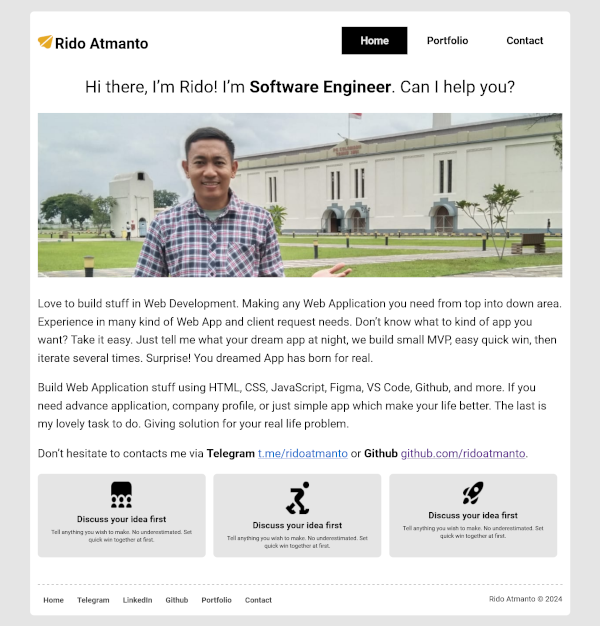
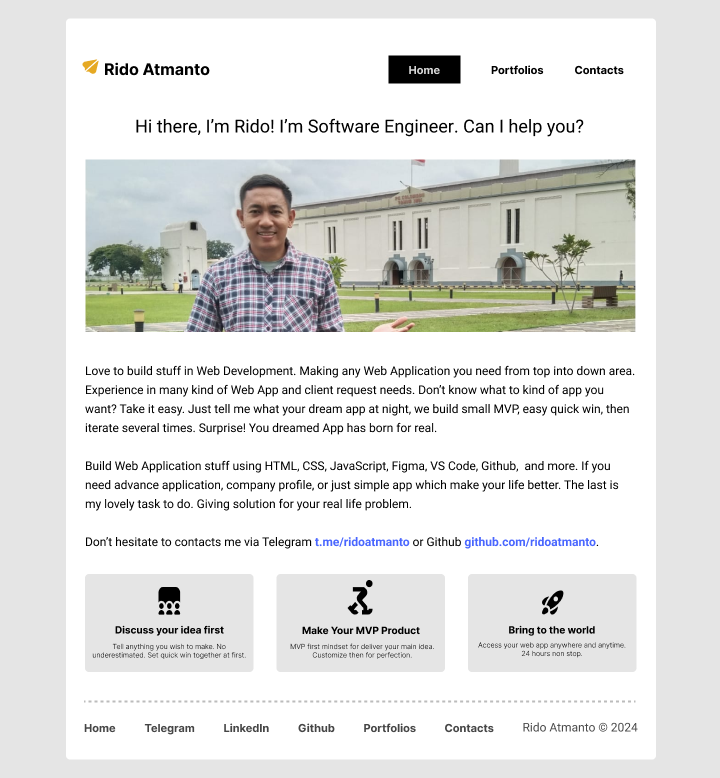
Applying Tailwind css on home page

diff --git a/index.html b/index.html
@@ -4,7 +4,8 @@
     <meta charset="UTF-8" />
     <meta name="viewport" content="width=device-width, initial-scale=1.0" />
     <title>Rido Atmanto | Personal's Website</title>
-    <link rel="stylesheet" href="/index.css" />
+    <!-- <link rel="stylesheet" href="/index.css" /> -->
+    <script src="https://cdn.tailwindcss.com"></script>
     <link rel="preconnect" href="https://fonts.googleapis.com" />
     <link rel="preconnect" href="https://fonts.gstatic.com" crossorigin />
     <link
@@ -13,30 +14,55 @@
     />
   </head>
 
-  <body>
-    <main>
-      <header>
-        <div class="left-header roboto-bold">
-          <img src="/images/rido-logo.png" alt="Rido's logo" />
-          <h2>Rido Atmanto</h2>
+  <body class="flex justify-center items-center px-4 py-4 bg-[#E5E5E5]">
+    <main class="px-4 py-4 bg-white rounded-lg max-w-screen-lg">
+      <div class="grid grid-cols-2 gap-4 lg:pt-8 pt-4 lg:pb-12 pb-6">
+        <div class="lg:col-span-1 col-span-2 lg:text-left text-center">
+          <img
+            src="/images/rido-logo.png"
+            alt="Rido's logo"
+            class="inline-block -mt-4"
+          />
+          <h1 class="text-3xl font-bold inline-block">Rido Atmanto</h1>
         </div>
-        <nav class="menu">
-          <ul>
-            <li><a href="/" class="active roboto-bold">Home</a></li>
-            <li><a href="/portfolio" class="roboto-bold">Portfolio</a></li>
-            <li><a href="/contact" class="roboto-bold">Contact</a></li>
+        <div class="lg:col-span-1 col-span-2 lg:pt-0 pt-4">
+          <ul class="flex lg:justify-end justify-center">
+            <li class="mr-1">
+              <a
+                href="/"
+                class="roboto-bold font-bold lg:px-8 px-4 lg:py-4 py-2 text-lg text-slate-300 bg-black hover:bg-white hover:text-black"
+                >Home</a
+              >
+            </li>
+            <li class="mr-1">
+              <a
+                href="/portfolio"
+                class="roboto-bold font-bold lg:px-8 px-4 lg:py-4 py-2 text-lg text-black bg-transparent hover:bg-black hover:text-slate-300"
+                >Portfolio</a
+              >
+            </li>
+            <li class="mr-1">
+              <a
+                href="/contact"
+                class="roboto-bold font-bold lg:px-8 px-4 lg:py-4 py-2 text-lg text-black bg-transparent hover:bg-black hover:text-slate-300"
+                >Contact</a
+              >
+            </li>
           </ul>
-        </nav>
+        </div>
+      </div>
+      <header>
+        <div class="left-header roboto-bold"></div>
+        <nav class="menu"></nav>
       </header>
       <div class="content roboto-regular">
-        <p class="title">
-          Hi there, I’m Rido! I’m <span class="bold">Software Engineer</span>.
-          Can I help you?
-        </p>
-        <div class="banner">
+        <h2 class="lg:text-3xl text-lg roboto-regular text-center lg:mb-8 mb-4">
+          Hi there, I’m Rido! I’m <b>Software Engineer</b>. Can I help you?
+        </h2>
+        <div class="overflow-hidden mb-8">
           <img src="/images/rido-home-banner.png" alt="rido's home banner" />
         </div>
-        <p class="roboto-regular">
+        <p class="roboto-regular text-lg mb-4">
           Love to build stuff in Web Development. Making any Web Application you
           need from top into down area. Experience in many kind of Web App and
           client request needs. Don’t know what to kind of app you want? Take it
@@ -44,68 +70,88 @@
           easy quick win, then iterate several times. Surprise! You dreamed App
           has born for real.
         </p>
-        <p class="roboto-regular">
+        <p class="roboto-regular text-lg mb-4">
           Build Web Application stuff using HTML, CSS, JavaScript, Figma, VS
           Code, Github, and more. If you need advance application, company
           profile, or just simple app which make your life better. The last is
           my lovely task to do. Giving solution for your real life problem.
         </p>
-        <p class="roboto-regular">
+        <p class="roboto-regular text-lg mb-4">
           Don’t hesitate to contacts me via <b>Telegram</b>
-          <a href="https://t.me/ridoatmanto">t.me/ridoatmanto</a> or
+          <a href="https://t.me/ridoatmanto" class="text-sky-400"
+            >t.me/ridoatmanto</a
+          >
+          or
           <b>Github</b>
-          <a href="https:/github.com/ridoatmanto">github.com/ridoatmanto</a>.
+          <a href="https:/github.com/ridoatmanto" class="text-sky-400"
+            >github.com/ridoatmanto</a
+          >.
         </p>
-        <div class="widget-container">
-          <div class="widget">
-            <img src="images/discuss.png" alt="Discuss icon's" />
-            <h3>Discuss your idea first</h3>
-            <p>
+        <div
+          class="grid lg:grid-cols-3 grid-cols-2 gap-4 pt-8 lg:pb-12 pb-4 text-center"
+        >
+          <div
+            class="lg:col-span-1 col-span-1 bg-[#E5E5E5] px-4 py-4 rounded-lg"
+          >
+            <div class="flex justify-center items-center mb-4">
+              <img src="images/discuss.png" alt="Discuss icon's" />
+            </div>
+            <h3 class="font-bold">Discuss your idea first</h3>
+            <p class="text-sm">
               Tell anything you wish to make. No underestimated. Set quick win
               together at first.
             </p>
           </div>
-          <div class="widget">
-            <img src="images/mvp.png" alt="MVP icon's" />
-            <h3>Discuss your idea first</h3>
-            <p>
-              Tell anything you wish to make. No underestimated. Set quick win
-              together at first.
+          <div
+            class="lg:col-span-1 col-span-1 bg-[#E5E5E5] px-4 py-4 rounded-lg"
+          >
+            <div class="flex justify-center items-center mb-4">
+              <img src="images/mvp.png" alt="MVP icon's" />
+            </div>
+            <h3 class="font-bold">Make Your MVP Product</h3>
+            <p class="text-sm">
+              MVP first mindset for deliver your main idea. Customize then for
+              perfection.
             </p>
           </div>
-          <div class="widget full-widget">
-            <img src="images/launch.png" alt="Launch icon's" />
-            <h3>Discuss your idea first</h3>
-            <p>
-              Tell anything you wish to make. No underestimated. Set quick win
-              together at first.
+          <div
+            class="lg:col-span-1 col-span-2 bg-[#E5E5E5] px-4 py-4 rounded-lg"
+          >
+            <div class="flex justify-center items-center mb-4">
+              <img src="images/launch.png" alt="Launch icon's" />
+            </div>
+            <h3 class="font-bold">Bring to the world</h3>
+            <p class="text-sm">
+              Access your web app anywhere and anytime. 24 hours non stop.
             </p>
           </div>
         </div>
       </div>
-      <footer class="roboto-regular">
-        <a href="/" class="active roboto-bold">Home</a>
+      <footer
+        class="roboto-regular border-dashed border-t-2 pt-4 lg:text-left text-center"
+      >
+        <a href="/" class="roboto-bold font-bold px-4">Home</a>
         <a
           href="https://t.me/ridoatmanto"
           target="_blank"
-          class="active roboto-bold"
+          class="active roboto-bold font-bold px-4"
           >Telegram</a
         >
         <a
           href="https://www.linkedin.com/in/rido-sandi-atmanto/"
           target="_blank"
-          class="roboto-bold"
+          class="roboto-bold font-bold px-4"
           >LinkedIn</a
         >
         <a
           href="https://github.com/ridoatmanto"
           target="_blank"
-          class="roboto-bold"
+          class="roboto-bold font-bold px-4"
           >Github</a
         >
-        <a href="/portfolio" class="roboto-bold">Portfolio</a>
-        <a href="/contact" class="roboto-bold">Contact</a>
-        <p>Rido Atmanto &copy; 2024</p>
+        <a href="/portfolio" class="roboto-bold font-bold px-4">Portfolio</a>
+        <a href="/contact" class="roboto-bold font-bold px-4">Contact</a>
+        <p class="inline-block lg:float-right px-4">Rido Atmanto &copy; 2024</p>
       </footer>
     </main>
   </body>
